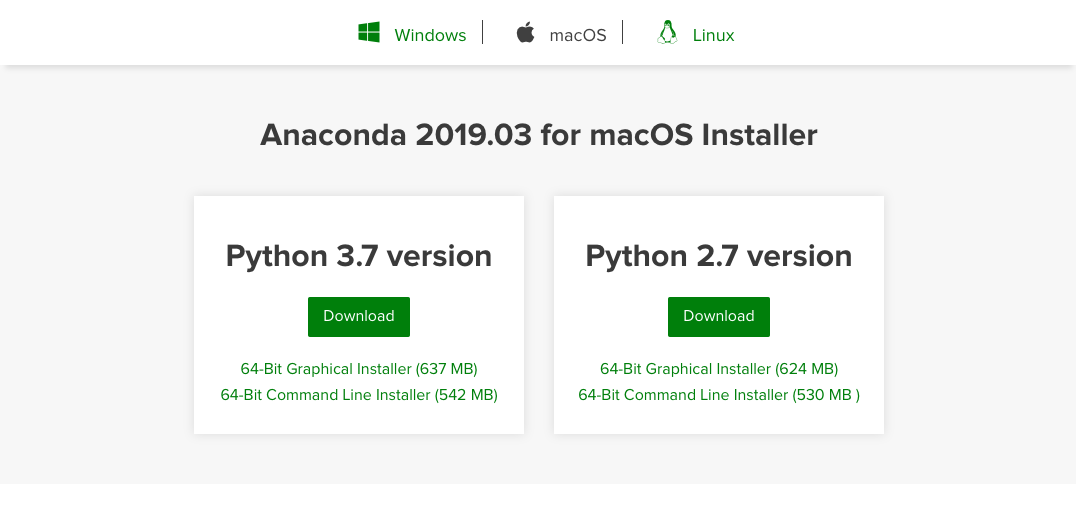
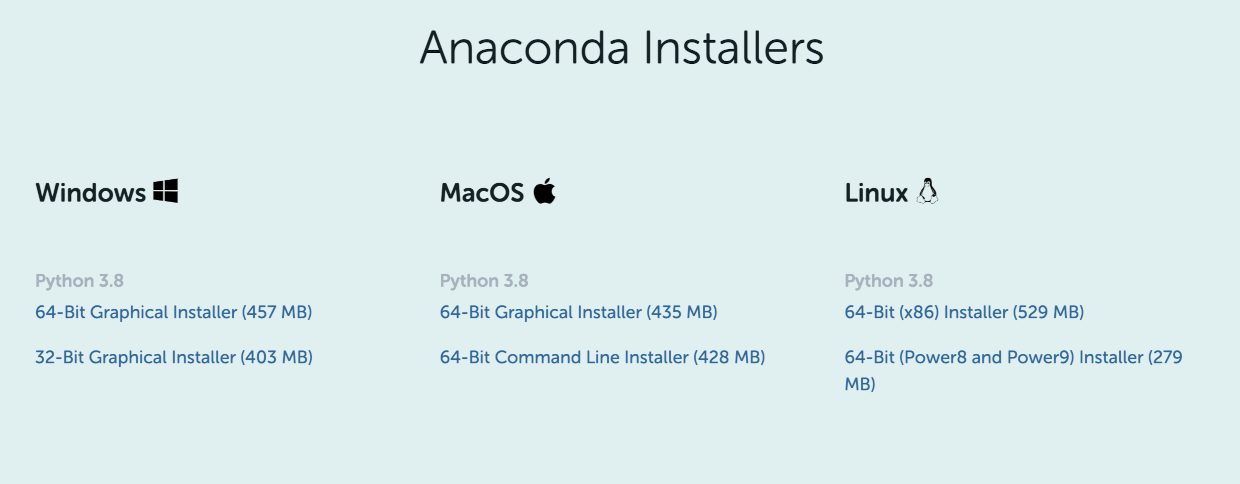
Update step 1 and 2

diff --git a/index.md b/index.md
@@ -1,4 +1,4 @@
-Anacoda 2019.03 インストール方法
+Anaconda 2019.03 インストール方法
 ========================================
 
 この文書は，初心者向けに情報提供を目的に書かれたものです．
@@ -6,11 +6,11 @@ Anacoda 2019.03 インストール方法
 
 1. Anaconda の配布サイトへ
 
-    配布サイト：[https://www.anaconda.com/distribution/#download-section](https://www.anaconda.com/distribution/#download-section)
+    配布サイト：[https://www.anaconda.com/products/individual#Downloads](https://www.anaconda.com/products/individual#Downloads)
 
 2. 適切なOS種別ごとのインストーラを入手する 
     
-    最上部の (Windows / macOS / Linux) を選択した後， "Python 3.7 version" の Download ボタンを押下する（ 2.7 は，終息予定なのでNG．必ず 3.7 を使用して下さい）．
+    OS種別ごと ( Windows / macOS ) にある， "64-Bit Graphical Installer" の Download ボタンを押下する．
     ![Anaconda のダウンロードサイト](00s.png)
 
 3. macOSの人は4.へ，Windowsの人は，5.へ
